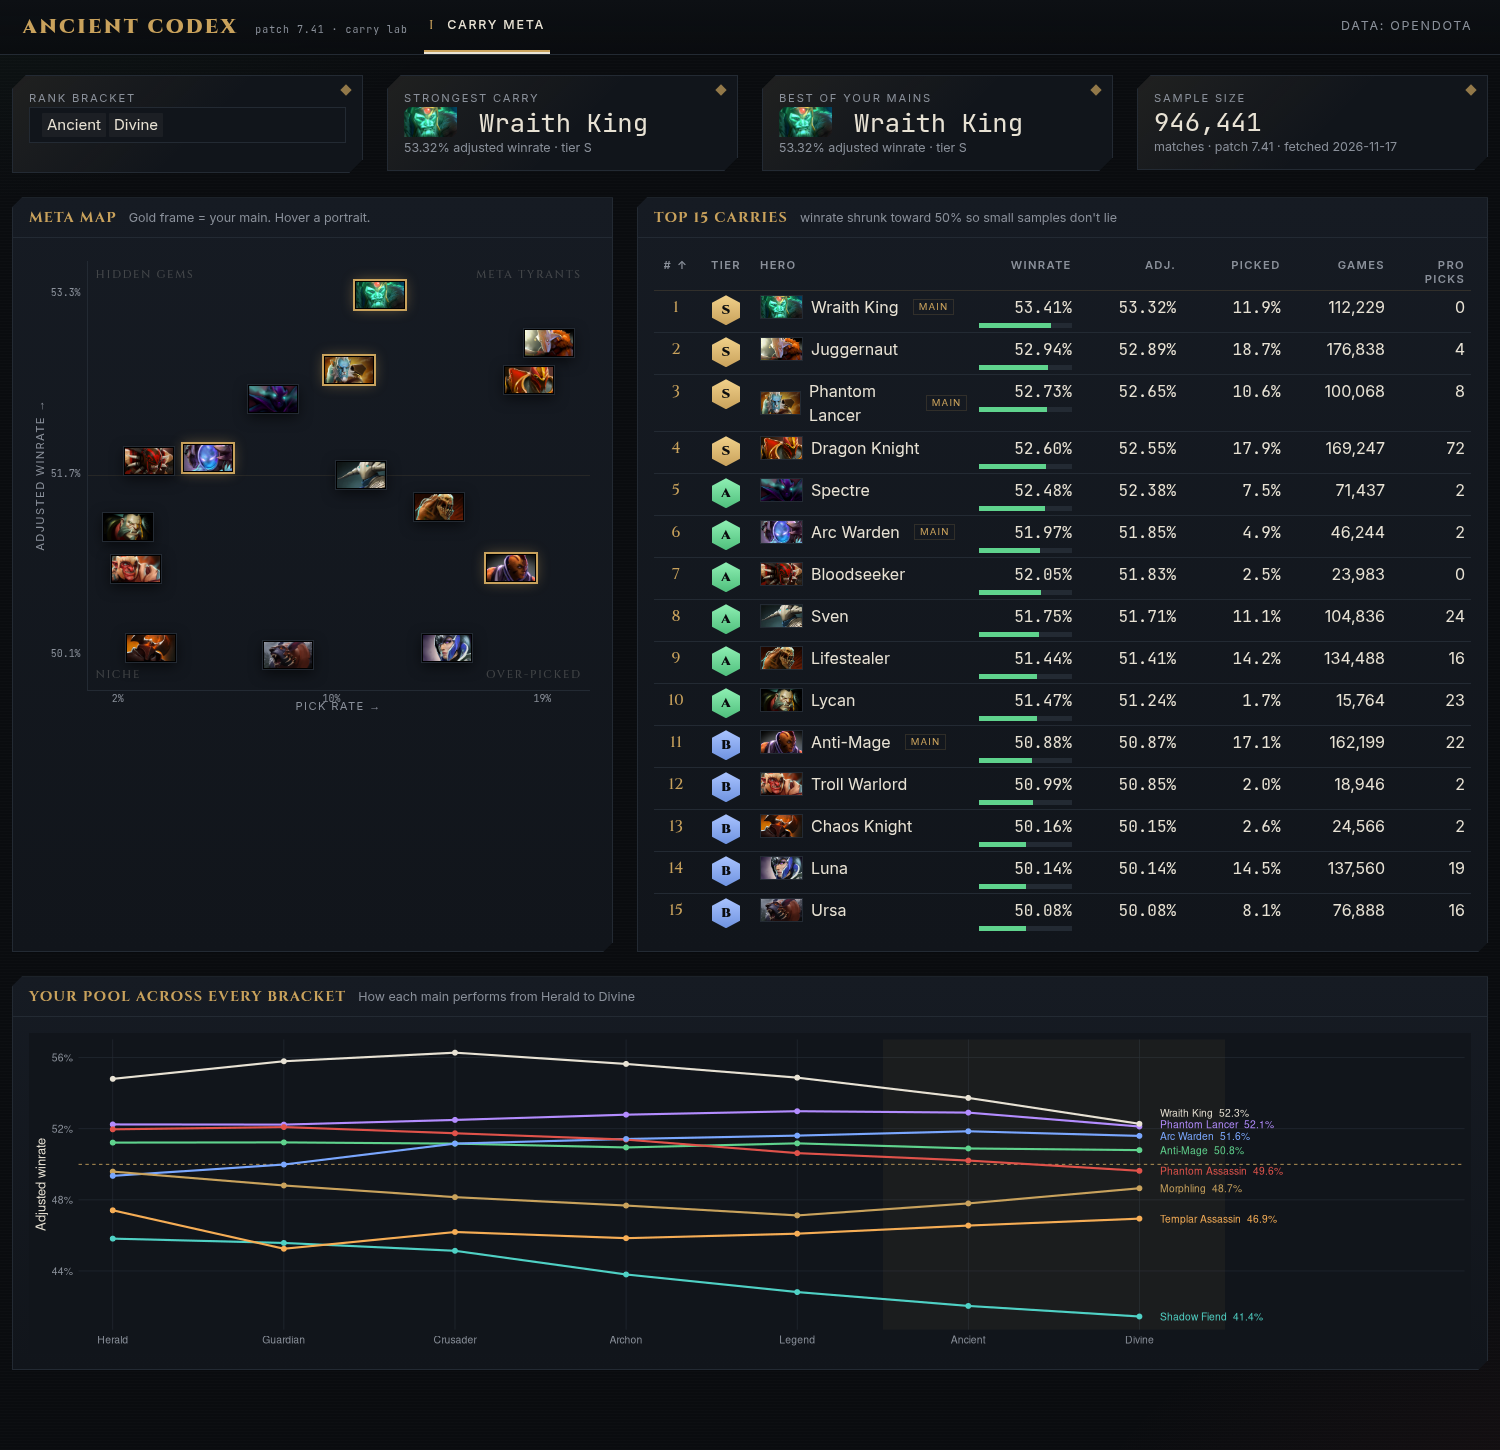
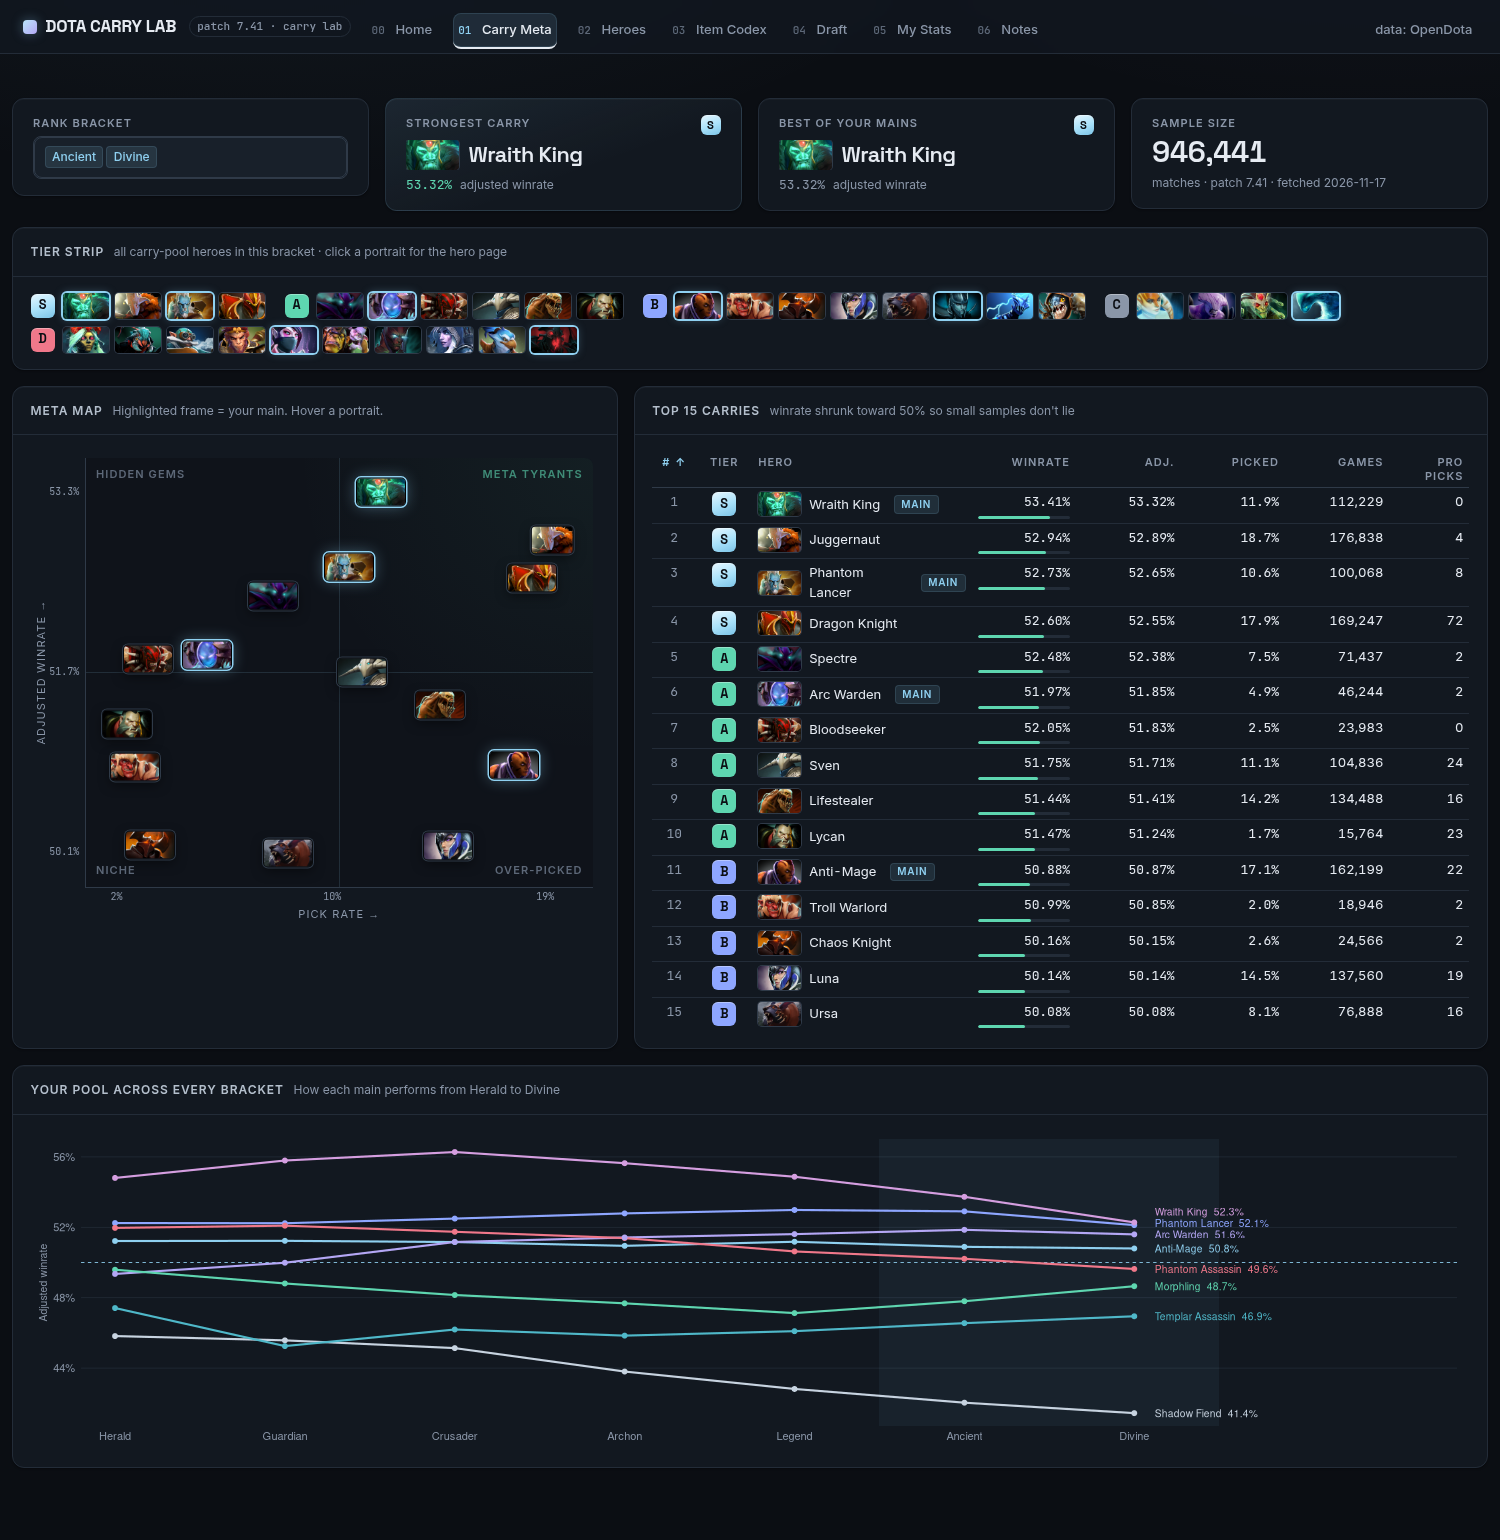
docs: refresh screenshots, add the screenshot tool, fix a research 05 claim
- research 05: WK is the second-lowest median GPM of the pool (SF is lower), not the lowest
- tools/screenshot.py: real-time Chrome DevTools screenshots; the old "blank Item Codex" was
  headless virtual time outrunning the Shiny websocket, not an app bug
- README: home screenshot, page overview table, tests/ and tools/ in the layout

diff --git a/tools/screenshot.py b/tools/screenshot.py
@@ -1,0 +1,52 @@
+# Dev tool: full-page screenshots of the running Shiny app via the Chrome DevTools
+# Protocol, with REAL waiting (headless Chrome's --virtual-time-budget runs faster than
+# the Shiny websocket, which made pages like Item Codex look empty).
+# Needs: google-chrome and the python "websocket-client" package.
+# 1) start the app:   Rscript -e 'shiny::runApp("app", port = 4470)'
+# 2) screenshot:      python3 tools/screenshot.py http://127.0.0.1:4470 /tmp/shots home= home_phone=@390 meta=?tab=meta items=?tab=items
+#    each job is name=query[@width]; output files are <out>/ux_<name>.png
+import json, subprocess, sys, time, base64, urllib.request, websocket, tempfile, os
+
+base, out = sys.argv[1], sys.argv[2]
+jobs = sys.argv[3:]
+port = 9333
+prof = tempfile.mkdtemp()
+chrome = subprocess.Popen(["google-chrome", "--headless=new", "--disable-gpu", "--hide-scrollbars",
+                           f"--remote-debugging-port={port}", f"--user-data-dir={prof}", "about:blank"],
+                          stdout=subprocess.DEVNULL, stderr=subprocess.DEVNULL)
+for _ in range(50):
+    try:
+        tabs = json.load(urllib.request.urlopen(f"http://127.0.0.1:{port}/json"))
+        page = [t for t in tabs if t["type"] == "page"][0]
+        break
+    except Exception:
+        time.sleep(0.2)
+ws = websocket.create_connection(page["webSocketDebuggerUrl"], timeout=60)
+mid = [0]
+def call(method, **params):
+    mid[0] += 1
+    ws.send(json.dumps({"id": mid[0], "method": method, "params": params}))
+    while True:
+        msg = json.loads(ws.recv())
+        if msg.get("id") == mid[0]:
+            return msg.get("result", {})
+call("Page.enable"); call("Runtime.enable")
+for job in jobs:
+    name, spec = job.split("=", 1)
+    width = 1500
+    if "@" in spec:
+        spec, w = spec.split("@"); width = int(w)
+    mobile = width < 600
+    call("Emulation.setDeviceMetricsOverride", width=width, height=1000, deviceScaleFactor=1, mobile=mobile)
+    call("Page.navigate", url=base + "/" + spec)
+    time.sleep(7)
+    errs = call("Runtime.evaluate", expression="Array.from(document.querySelectorAll('.shiny-output-error')).map(e=>e.innerText).join(' | ')", returnByValue=True)
+    h = call("Runtime.evaluate", expression="Math.max(document.body.scrollHeight, document.documentElement.scrollHeight)", returnByValue=True)["result"]["value"]
+    call("Emulation.setDeviceMetricsOverride", width=width, height=min(int(h), 9000), deviceScaleFactor=1, mobile=mobile)
+    time.sleep(1.5)
+    sw = call("Runtime.evaluate", expression="document.documentElement.scrollWidth", returnByValue=True)["result"]["value"]
+    data = call("Page.captureScreenshot", format="png")["data"]
+    p = os.path.join(out, f"ux_{name}.png")
+    open(p, "wb").write(base64.b64decode(data))
+    print(p, "height", h, "scrollWidth", sw, "errors:", errs["result"].get("value"))
+chrome.kill()

diff --git a/README.md b/README.md
@@ -10,7 +10,19 @@ Dota 2 research lab for a **position-1 carry** player (Ancient–Divine), built 
 
 Mains: Anti-Mage · Morphling · Phantom Lancer · Wraith King · Templar Assassin · Shadow Fiend · Arc Warden · Phantom Assassin.
 
-![Carry meta page](docs/img/carry_meta.png)
+![Home: carry tier list, your pool, insights](docs/img/home.png)
+
+| Page | What it answers |
+|------|-----------------|
+| 00 Home | Patch tier list (click a hero), your 8 mains at a glance, the key findings |
+| 01 Carry Meta | Meta map (pick rate × winrate), top-15 table, your pool across brackets |
+| 02 Heroes | Live build rail with item icons, timed core build, why it works, matchups |
+| 03 Item Codex | Item cards + gold efficiency (what you pay for stats vs the effect) |
+| 04 Draft | Rank your pool against the enemy draft (Ancient–Divine matchups) |
+| 05 My Stats | Your OpenDota games: winrate, GPM percentile, item timings vs targets |
+| 06 Notes | The knowledge pack and research write-ups, readable in-app |
+
+More screenshots: [hero page](docs/img/hero_page.png) · [carry meta](docs/img/carry_meta.png) · [draft](docs/img/draft.png)
 
 ## Quick start
 ```bash
@@ -44,7 +56,9 @@ data/
   curated/              hand-written truth: heroes.json, item_notes.json, mechanics.json
   processed/            generated: carry_meta.json, items_reference.json
 knowledge/              LLM context pack (see knowledge/README.md)
-docs/                   roadmap, research write-ups, screenshots
+docs/                   roadmap, research, design system, sources, screenshots
+tests/                  base-R test suite (Rscript tests/run_tests.R)
+tools/screenshot.py     dev tool: real-time headless screenshots of the app
 ```
 
 ## Roadmap

diff --git a/docs/research/05_farm_benchmarks.md b/docs/research/05_farm_benchmarks.md
@@ -8,7 +8,7 @@ not filtered by rank, so treat "50th percentile" as "a typical public game"._
 ## TL;DR
 - **Median GPM targets** for your mains: Arc 705 · AM 672 · PL 639 · TA 629 · PA 618 ·
   Morph 589 · WK 578 · SF 572. Top-10% games sit ~150–250 GPM higher.
-- **Wraith King wins with the *least* gold** (578 GPM median, lowest of the pool) and still has
+- **Wraith King wins on very little gold** (578 GPM median, second-lowest of your pool; only SF's 572 is lower) and still has
   the highest winrate in your bracket. He's a *gold-efficient* carry: his kit (Reincarnation,
   lifesteal, stun) does the work items do for others. If your team needs farm too, WK is a good pick.
 - **Anti-Mage is the opposite:** 672 GPM and 9.5 LH/min at the median, with the lowest
